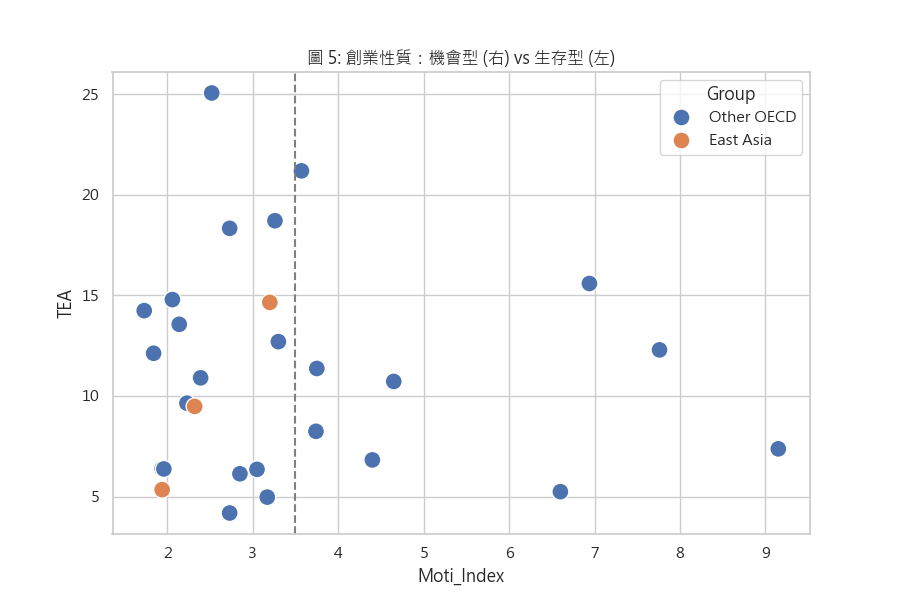
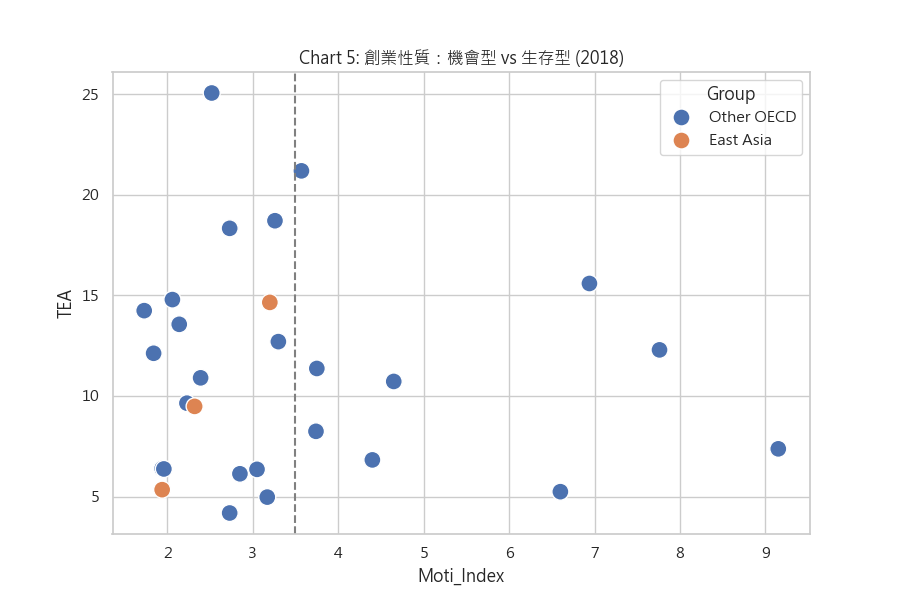
圖表種類定稿

Changed region(s): [[0.3422, 0.06, 0.6844, 0.12]]

diff --git a/analysis.py b/analysis.py
@@ -7,7 +7,7 @@ from datetime import datetime
 import os
 
 # ==========================================
-# 1. 環境設定與研究定義
+# 1. 配置與環境設定
 # ==========================================
 FILE_PATH = 'data.xlsx'
 OUTPUT_DIR = "research_final_complete_package"
@@ -22,10 +22,9 @@ def log(msg):
     print(f"[{datetime.now().strftime('%H:%M:%S')}] {msg}")
 
 # ==========================================
-# 2. 強大資料清理工具 (處理符號與缺失)
+# 2. 資料清理工具
 # ==========================================
 def clean_numeric(x):
-    """處理百分比、逗號、空值與非數值字串"""
     if pd.isna(x): return np.nan
     if isinstance(x, str):
         x = x.replace('%', '').replace(',', '').strip()
@@ -35,7 +34,6 @@ def clean_numeric(x):
     return float(x)
 
 def melt_to_long(df, id_col, value_name, start_y=2013, end_y=2023):
-    """將 Excel 寬表格轉為長表格 (Panel Data)"""
     df.columns = [str(c).strip() for c in df.columns]
     year_cols = [c for c in df.columns if c.isdigit() and start_y <= int(c) <= end_y]
     df_long = df.melt(id_vars=[id_col], value_vars=year_cols, var_name='Year', value_name=value_name)
@@ -44,19 +42,17 @@ def melt_to_long(df, id_col, value_name, start_y=2013, end_y=2023):
     return df_long
 
 # ==========================================
-# 3. 數據庫建立引擎 (2013-2023)
+# 3. 數據庫建立引擎
 # ==========================================
 def build_thesis_database():
     log("正在對齊 2013-2023 全球面板數據...")
     xls = pd.ExcelFile(FILE_PATH)
     
-    # 讀取主要指標
     df_he = melt_to_long(pd.read_excel(xls, 'School enrollment, tertiary % g'), 'Country Code', 'HE_Rate').rename(columns={'Country Code':'Code'})
     df_unemp = melt_to_long(pd.read_excel(xls, 'Unemployment, total (% of total'), 'Country Code', 'Unemployment_Rate').rename(columns={'Country Code':'Code'})
     df_tea = melt_to_long(pd.read_excel(xls, 'Percentage of 18-64 population ', header=1), 'Code', 'TEA')
     df_moti = melt_to_long(pd.read_excel(xls, 'improvementnecessary', header=1), 'Code', 'Moti_Index')
     
-    # 處理自雇率 (ILO 雙層標題)
     df_emp_raw = pd.read_excel(xls, 'Employment by ILO', header=[0, 1])
     emp_list = []
     for col in df_emp_raw.columns:
@@ -67,22 +63,17 @@ def build_thesis_database():
             emp_list.append(temp)
     df_emp_long = pd.concat(emp_list)
     df_emp_long['Self_Employment_Rate'] = df_emp_long['Self_Employment_Rate'].apply(clean_numeric)
-    # 單位校正：若為小數(0.15)則轉為百分比(15)
     df_emp_long['Self_Employment_Rate'] = df_emp_long['Self_Employment_Rate'].apply(lambda x: x*100 if x < 1 and not pd.isna(x) else x)
 
-    # 執行外部合併 (確保所有國家均保留)
     df = df_he.merge(df_unemp, on=['Code', 'Year'], how='outer') \
              .merge(df_emp_long, on=['Code', 'Year'], how='outer') \
              .merge(df_tea, on=['Code', 'Year'], how='outer') \
              .merge(df_moti, on=['Code', 'Year'], how='outer')
 
-    # 數據補位：線性插補各國缺失之年度斷點
     df = df.sort_values(['Code', 'Year'])
-    target_cols = ['HE_Rate', 'Unemployment_Rate', 'Self_Employment_Rate', 'TEA', 'Moti_Index']
-    for col in target_cols:
+    for col in ['HE_Rate', 'Unemployment_Rate', 'Self_Employment_Rate', 'TEA', 'Moti_Index']:
         df[col] = df.groupby('Code')[col].transform(lambda x: x.interpolate(limit_direction='both', limit=1))
 
-    # 加入東亞標記與群組
     df_code = pd.read_excel(xls, 'OECD 38 國 ISO Code 對照表')[['ISO Code', '區域']].rename(columns={'ISO Code':'Code'})
     df = df.merge(df_code, on='Code', how='left')
     df['Is_East_Asia'] = df['Code'].apply(lambda x: 1 if x in ['TWN', 'JPN', 'KOR'] else 0)
@@ -91,93 +82,82 @@ def build_thesis_database():
     return df
 
 # ==========================================
-# 4. 圖表分析生成器 (圖 1 - 圖 7)
+# 4. 圖表分析生成器 (Chart 1 - Chart 8)
 # ==========================================
 def generate_all_plots(df):
-    log("開始產出 7 張核心研究圖表...")
+    log("開始產出 8 張核心研究圖表 (含 2023 四象限分析)...")
     
-    # 圖 1 & 圖 2: 全球背景與四象限分析 (2022)
+    # 圖 1 & 2: 2022 背景與四象限
     df22 = df[df['Year'] == 2022].dropna(subset=['Unemployment_Rate', 'Self_Employment_Rate'])
-    v_avg, h_avg = df22['Unemployment_Rate'].mean(), df22['Self_Employment_Rate'].mean()
+    v_avg22, h_avg22 = df22['Unemployment_Rate'].mean(), df22['Self_Employment_Rate'].mean()
     
     fig, (ax1, ax2) = plt.subplots(1, 2, figsize=(18, 7))
     sns.regplot(x='HE_Rate', y='Self_Employment_Rate', data=df22, ax=ax1, scatter_kws={'alpha':0.4})
-    ax1.set_title("圖 1: 全球高教擴張與自雇率溢出基礎關係 (2022)")
+    ax1.set_title("Chart 1: 全球高教擴張與自雇率溢出關係 (2022)")
     
-    # 核心：四象限圖
-    ax2.axvline(v_avg, color='grey', ls='--'); ax2.axhline(h_avg, color='grey', ls='--')
-    sns.scatterplot(x='Unemployment_Rate', y='Self_Employment_Rate', hue='Group', size='TEA', 
-                    sizes=(50, 600), data=df22, ax=ax2, palette='coolwarm')
-    # 標註東亞三國
+    ax2.axvline(v_avg22, color='grey', ls='--'); ax2.axhline(h_avg22, color='grey', ls='--')
+    sns.scatterplot(x='Unemployment_Rate', y='Self_Employment_Rate', hue='Group', size='TEA', sizes=(50, 500), data=df22, ax=ax2, palette='coolwarm')
     for code in ['TWN', 'JPN', 'KOR']:
         p = df22[df22['Code'] == code]
-        if not p.empty:
-            ax2.text(p['Unemployment_Rate'].iloc[0]+0.15, p['Self_Employment_Rate'].iloc[0], 
-                     f"{code}", weight='bold')
-    ax2.set_title("圖 2: 失業壓力 vs 自雇出口 (四象限分析)")
-    plt.savefig(f"{OUTPUT_DIR}/plot_01_02_context_quadrant.png")
+        if not p.empty: ax2.text(p['Unemployment_Rate'].iloc[0]+0.15, p['Self_Employment_Rate'].iloc[0], f"{code}", weight='bold')
+    ax2.set_title("Chart 2: 失業壓力 vs 自雇出口 (2022 四象限)")
+    plt.savefig(f"{OUTPUT_DIR}/plot_01_02_2022_context.png")
 
-    # 圖 3: 東亞三國趨勢 (2013-2023)
+    # 圖 3: 東亞趨勢
     plt.figure(figsize=(10, 5))
     sns.lineplot(data=df[df['Is_East_Asia']==1], x='Year', y='Self_Employment_Rate', hue='Code', marker='o', linewidth=2)
-    plt.title("圖 3: 東亞三國自雇率變遷軌跡 (2013-2023)")
+    plt.title("Chart 3: 東亞三國自雇率變遷軌跡 (2013-2023)")
     plt.savefig(f"{OUTPUT_DIR}/plot_03_ea_trends.png")
 
-    # 圖 4: 台灣個案深度連動 (雙軸)
+    # 圖 4: 台灣深度故事
     twn = df[df['Code'] == 'TWN'].sort_values('Year')
     fig, ax3 = plt.subplots(figsize=(10, 5))
     ax4 = ax3.twinx()
     ax3.plot(twn['Year'], twn['HE_Rate'], 'g-s', label='高教在學率', linewidth=2)
     ax4.plot(twn['Year'], twn['TEA'], 'r-^', label='TEA 指數', linewidth=2)
-    plt.title("圖 4: 台灣：高教儲備與創業活躍度之時序連動")
+    plt.title("Chart 4: 台灣個案連動分析")
     ax3.legend(loc='upper left'); ax4.legend(loc='upper right')
-    plt.savefig(f"{OUTPUT_DIR}/plot_04_taiwan_deepdive.png")
+    plt.savefig(f"{OUTPUT_DIR}/plot_04_taiwan.png")
 
-    # 圖 5: 創業性質動機分析 (2018)
+    # 圖 5: 創業動機 (2018)
     plt.figure(figsize=(9, 6))
     df18 = df[df['Year'] == 2018].dropna(subset=['Moti_Index', 'TEA'])
     sns.scatterplot(x='Moti_Index', y='TEA', hue='Group', s=150, data=df18)
     plt.axvline(df18['Moti_Index'].mean(), color='gray', ls='--')
-    plt.title("圖 5: 創業性質：機會型 (右) vs 生存型 (左)")
+    plt.title("Chart 5: 創業性質：機會型 vs 生存型 (2018)")
     plt.savefig(f"{OUTPUT_DIR}/plot_05_motivation.png")
 
-    # 圖 6: 交互作用調節效果 (2022)
+    # 圖 6: 調節效果 (2022)
     sns.lmplot(x='HE_Rate', y='Self_Employment_Rate', hue='Group', data=df22, aspect=1.4, palette='Set1')
-    plt.title("圖 6: 高教擴張之調節效果視覺化 (2022)")
+    plt.title("Chart 6: 高教擴張之調節效果視覺化 (2022)")
     plt.savefig(f"{OUTPUT_DIR}/plot_06_interaction.png")
 
-    # 圖 7: 疫情前後斜率對照 (2019 vs 2023)
+    # 圖 7: 疫情前後斜率對照
     df_comp = df[df['Year'].isin([2019, 2023])].copy()
     df_comp['Period'] = df_comp['Year'].map({2019: '疫情前 (2019)', 2023: '後疫情/AI (2023)'})
     sns.lmplot(x='HE_Rate', y='Self_Employment_Rate', hue='Group', col='Period', data=df_comp, aspect=1.2)
     plt.savefig(f"{OUTPUT_DIR}/plot_07_pandemic_comparison.png")
 
+    # 圖 8: 新增的 2023 四象限分析
+    df23 = df[df['Year'] == 2023].dropna(subset=['Unemployment_Rate', 'Self_Employment_Rate'])
+    v_avg23, h_avg23 = df23['Unemployment_Rate'].mean(), df23['Self_Employment_Rate'].mean()
+    plt.figure(figsize=(12, 8))
+    plt.axvline(v_avg23, color='grey', ls='--', alpha=0.5); plt.axhline(h_avg23, color='grey', ls='--', alpha=0.5)
+    sns.scatterplot(x='Unemployment_Rate', y='Self_Employment_Rate', hue='Group', size='TEA', sizes=(100, 1000), data=df23, palette='coolwarm', alpha=0.7)
+    for code in ['TWN', 'JPN', 'KOR']:
+        p = df23[df23['Code'] == code]
+        if not p.empty: plt.text(p['Unemployment_Rate'].iloc[0]+0.1, p['Self_Employment_Rate'].iloc[0], f"{code} (TEA:{p['TEA'].iloc[0]:.1f})", weight='bold')
+    plt.title("Chart 8: 2023 全球失業壓力與自雇出口象限圖", fontsize=16)
+    plt.savefig(f"{OUTPUT_DIR}/plot_08_quadrant_2023.png")
+
 # ==========================================
-# 5. 主程式：執行與數據匯出
+# 5. 主執行程序
 # ==========================================
 if __name__ == "__main__":
     try:
         final_df = build_thesis_database()
-        
-        # 跑計量模型
-        log("正在跑交互作用模型...")
-        model = smf.ols('Self_Employment_Rate ~ HE_Rate * Is_East_Asia + Unemployment_Rate', data=final_df).fit()
-        
-        # 匯出報表
-        log("匯出 CSV 報表...")
-        final_df.to_csv(f"{OUTPUT_DIR}/final_panel_data_2013_2023.csv", index=False, encoding='utf-8-sig')
-        
-        # 整理模型結果
-        res_df = pd.DataFrame({'Coef': model.params, 'P_val': model.pvalues})
-        res_df['Sig'] = res_df['P_val'].apply(lambda x: '***' if x < 0.001 else ('**' if x < 0.01 else ('*' if x < 0.05 else '')))
-        res_df.to_csv(f"{OUTPUT_DIR}/model_results_final.csv", encoding='utf-8-sig')
-        
-        # 生成所有 7 張圖表
         generate_all_plots(final_df)
-        
-        log(f"🎉 全部研究產出已完成！請檢查 '{OUTPUT_DIR}' 資料夾。")
-        print("\n--- 交互作用項顯著性檢核 ---")
-        print(res_df.loc[['HE_Rate:Is_East_Asia']])
-        
+        final_df.to_csv(f"{OUTPUT_DIR}/final_dataset_2023.csv", index=False, encoding='utf-8-sig')
+        log(f"🎉 全部生成完畢！請至 '{OUTPUT_DIR}' 資料夾查看。")
     except Exception as e:
         log(f"❌ 錯誤: {e}")
